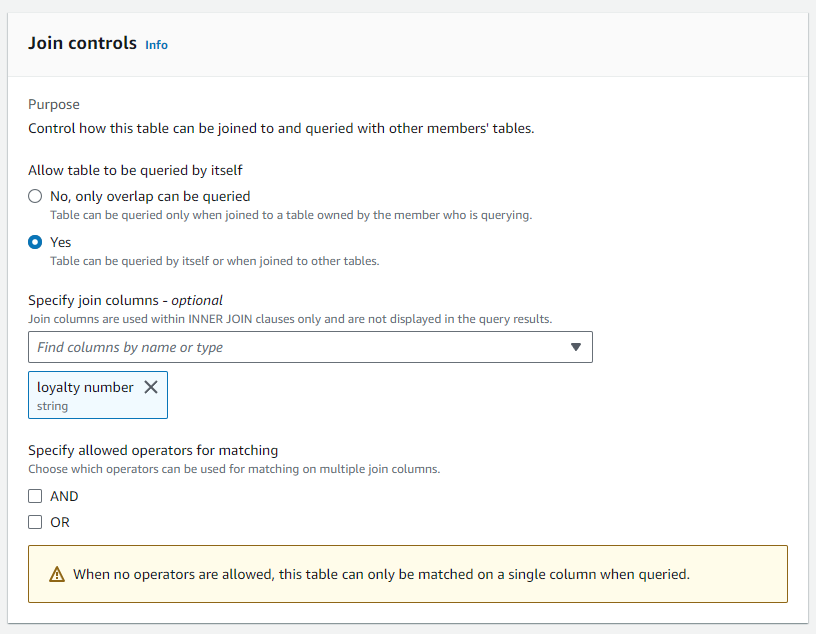
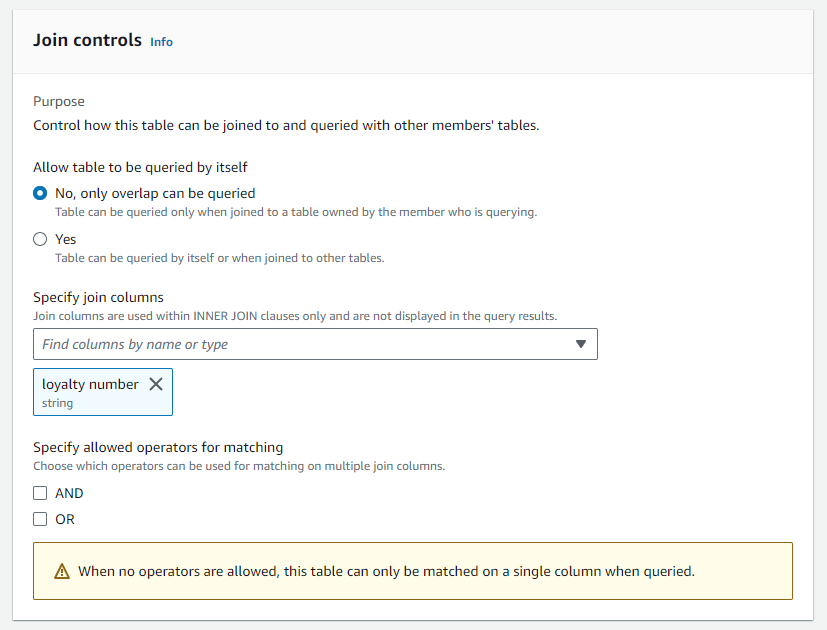
Edit session 02 deployment steps

Changed region(s): [[0.0, 0.0302, 1.0, 0.9952], [0.0306, 0.0603, 0.2145, 0.0905], [0.4596, 0.7238, 0.5515, 0.754]]

diff --git a/02-joining-tables/docs/aggregate.md b/02-joining-tables/docs/aggregate.md
@@ -94,7 +94,7 @@
 
          * **Join controls**:
 
-            * **Allow table to be queried by itself**: `Yes`
+            * **Allow table to be queried by itself**: `No, only overlap can be queried`
 
             * **Specify join columns**: `loyalty number`
 
@@ -146,6 +146,122 @@
 
          1. Click **Associate table**.
 
-### Automatic Deployment
+1. Login to the AWS Clean Rooms console using the `aws-clean-rooms-lab-account-2` credential.
+
+   1. In the **Collaborations** page, you will find a collaboration available to join. Click on it.
+
+      ![](/images/02-joining-tables/aggregate/20.png)
+
+      1. This is the collaboration we've just created in account 1.
+
+         Review it, then click **Create membership**.
+
+         ![](/images/02-joining-tables/aggregate/21.png)
+
+      1. Input the following details:
+
+         * **Query logging**: `Turn on`
+
+         ![](/images/02-joining-tables/aggregate/22.png)
+
+      1. Verify the detail, then click **Create membership**.
+
+         ![](/images/02-joining-tables/aggregate/23.png)
+
+   1. Click on **Configured tables** on the nav menu, then click **Configure new table**.
+
+      ![](/images/02-joining-tables/aggregate/06.png)
+
+      1. Input the following details, then click **Configure new table**:
+
+         * **Database**: `aws-clean-rooms-lab`
+
+         * **Table**: `flight_history`
+
+         * **Which columns do you want to allow in collaborations?**: `All columns`
+
+         * **Configured table Name**: `flight_history_aggregation`
+
+         ![](/images/02-joining-tables/aggregate/24.png)
+
+         ![](/images/02-joining-tables/aggregate/25.png)
+
+      1. There is a warning saying **This table is not configure for querying**.
+
+         Click **Configure analysis rule**.
+
+         ![](/images/02-joining-tables/aggregate/26.png)
+
+      1. Choose `Aggregation` for **Analysis rule type** and `Guided flow` for **Creation method**, then click **Next**.
+
+         ![](/images/02-joining-tables/aggregate/10.png)
+
+      1. Input the following details:
+
+         * **Aggregate function**: `AVG`
+
+           **Columns**: `points accumulated`, `points redeemed`
+
+         * **Aggregate function**: `SUM`
+
+           **Columns**: `points accumulated`, `points redeemed`
+
+         * **Aggregate function**: `COUNT DISTINCT`
+
+           **Columns**: `loyalty number`
+
+         * **Join controls**:
+
+            * **Allow table to be queried by itself**: `No, only overlap can be queried`
+
+            * **Specify join columns**: `loyalty number`
+
+            * **Specify allowed operators for matching**: *(Uncheck all options)*
+         
+         * **Dimension controls**:
+
+            * **Specify dimension columns**: *(Select all remaining columns)*
+
+         * **Scalar functions**: `None`
+
+         * **Aggregation constraints**:
+
+            * **Column name**: `loyalty number`
+
+            * **Minimum number of distinct values**: `10`
+
+         ![](/images/02-joining-tables/aggregate/27.png)
+
+         ![](/images/02-joining-tables/aggregate/12.png)
+
+         ![](/images/02-joining-tables/aggregate/28.png)
+         
+         ![](/images/02-joining-tables/aggregate/14.png)
+         
+         ![](/images/02-joining-tables/aggregate/29.png)
+
+      1. After reviewing the details, click **Configure analysis rule**.
+
+         This will bring us back to the configured table page. Click **Associate to collaboration**.
+
+         ![](/images/02-joining-tables/aggregate/30.png)
+
+         1. Pick `clean_rooms_lab_collab_02-aggregate` then click **Choose collaboration**.
+
+            ![](/images/02-joining-tables/aggregate/17.png)
+
+         1. Input the following details:
+
+            * **Configured table name**: `flight_history_aggregation`
+
+            * **Table association Name**: `flight_history`
+
+            * **Service role name**: *(This should be prefilled. If not, give it a random name)*
+
+            ![](/images/02-joining-tables/aggregate/31.png)
+            
+            ![](/images/02-joining-tables/aggregate/19.png)
+
+         1. Click **Associate table**.
 
 ## Exercise

diff --git a/02-joining-tables/README.md b/02-joining-tables/README.md
@@ -22,6 +22,24 @@ You may use the automatic method to quickly deploy all resources.
 
 But I recommend going through the manual method to understand the difference between the 2 analysis rules.
 
+### Manual Deployment
+
+See steps in [sub sessions](#sub-session)
+
+### Automatic Deployment
+
+1. Make sure you have set up your local environment correctly. [See instruction](/README.md#setup-your-environment)
+
+1. Complete [**0. Prepare Glue database**](/00-prepare-glue-database) deployment
+
+1. Run the following scripts to deploy resources
+
+   ```bash
+   cd 02-joining-tables/terraform/
+   terraform init
+   terraform apply -auto-approve
+   ```
+
 ## Sub session
 
 This session consists of 2 sub sessions:
